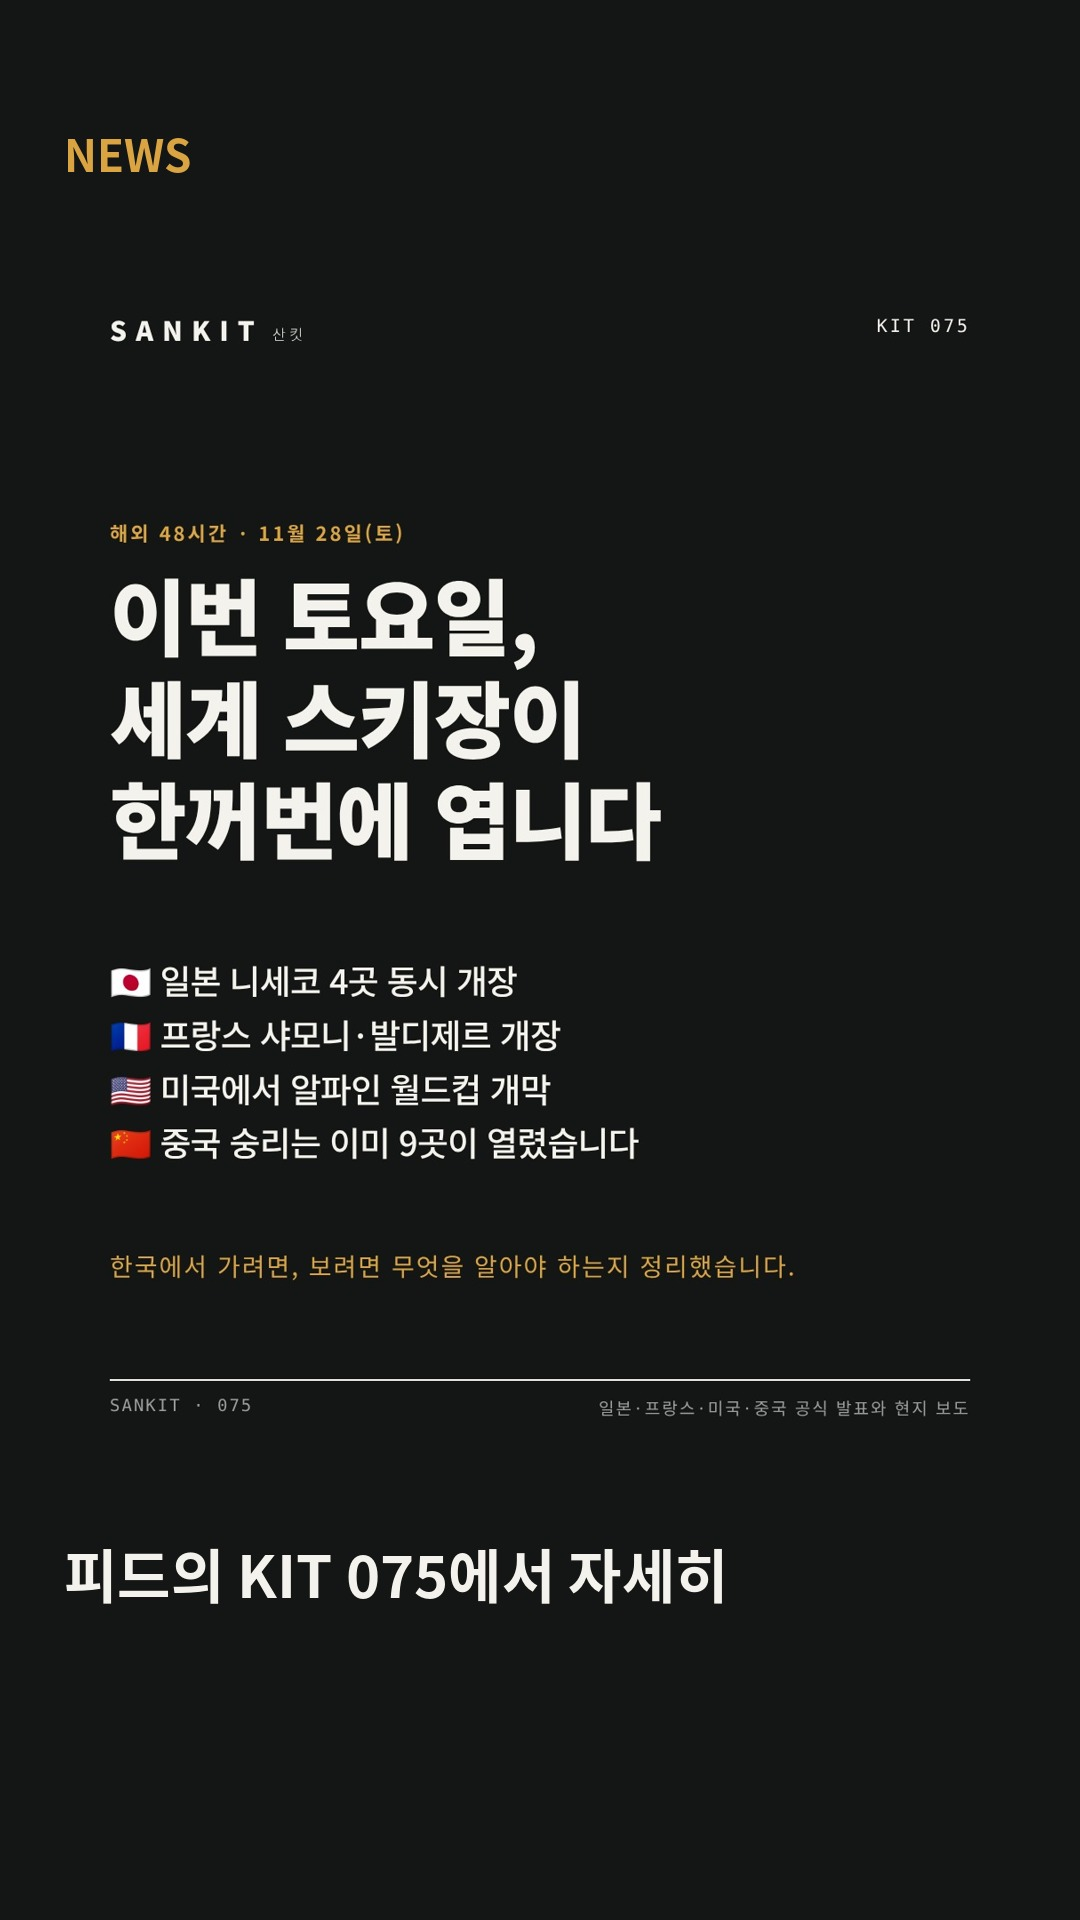
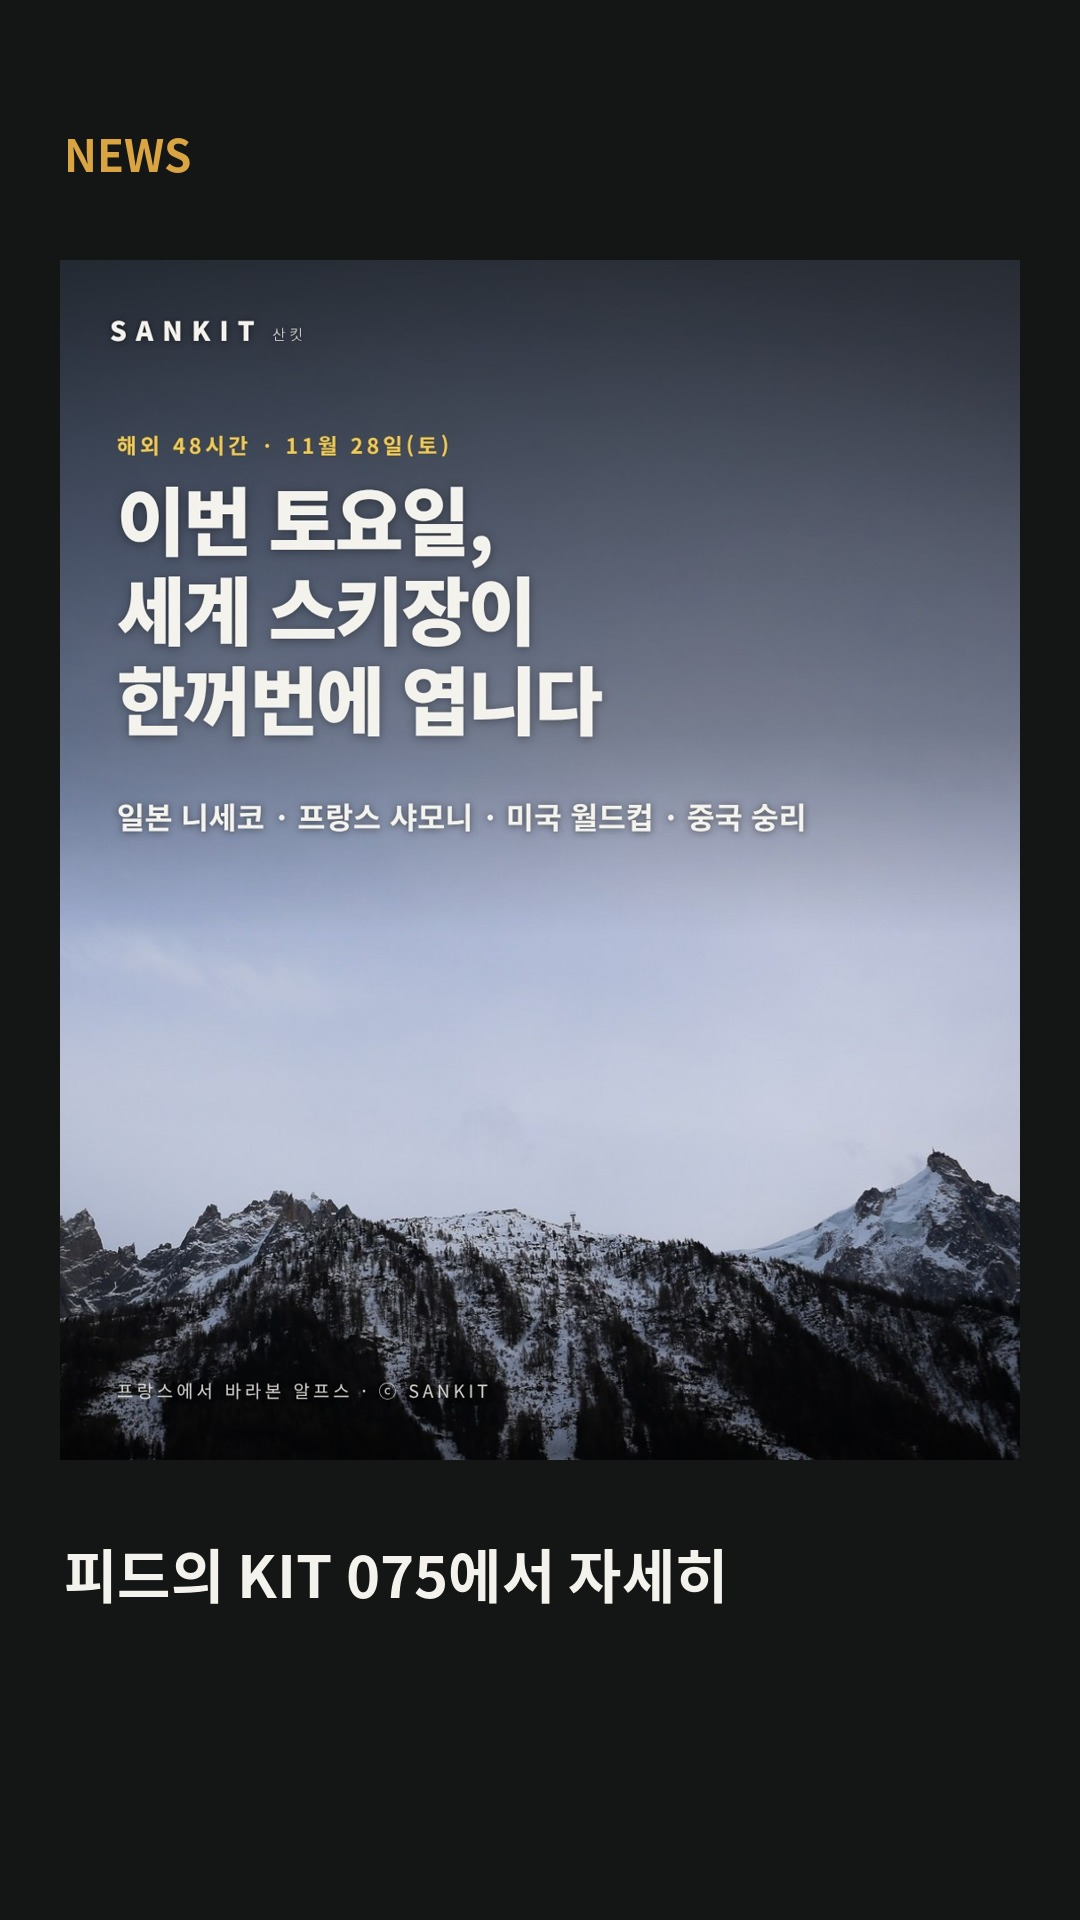
KIT 075 표지에 운영자 사진 적용 + EDITORIAL §31 사진 1장 규칙
Claude-Session: https://claude.ai/code/session_01VaA6FLe1k5iW7fuxv6ejxw

diff --git a/queue/2026-11-27/slot2/kit.html b/queue/2026-11-27/slot2/kit.html
@@ -43,18 +43,14 @@ body{background:#ccc;font-family:'Noto Sans CJK KR','Noto Sans CJK JP',sans-seri
 .cover .sub ~ .h2l,.cover .h2l.withsub{bottom:192px}
 .cover .shade{position:absolute;left:0;right:0;top:0;height:220px;background:linear-gradient(180deg,rgba(20,22,21,.55),rgba(20,22,21,0))}
 </style></head><body>
-<div class="card dark" id="s1">
-  <div class="wm">SANKIT<i>산킷</i></div><div class="kit mono">KIT 075</div>
-  <div class="kick" style="top:290px">해외 48시간 · 11월 28일(토)</div>
-  <div class="head" style="top:340px;right:56px;font-size:94px">이번 토요일,<br>세계 스키장이<br>한꺼번에 엽니다</div>
-  <div class="body" style="left:56px;right:56px;top:780px;font-size:38px">
-    🇯🇵 일본 니세코 4곳 동시 개장<br>
-    🇫🇷 프랑스 샤모니·발디제르 개장<br>
-    🇺🇸 미국에서 알파인 월드컵 개막<br>
-    🇨🇳 중국 숭리는 이미 9곳이 열렸습니다
-  </div>
-  <div class="call" style="left:56px;right:56px;top:1110px;font-size:28px;color:#d9a441">한국에서 가려면, 보려면 무엇을 알아야 하는지 정리했습니다.</div>
-  <div class="foot"><span class="mono">SANKIT · 075</span><span>일본·프랑스·미국·중국 공식 발표와 현지 보도</span></div>
+<div class="card cover" id="s1">
+  <img class="bg" src="cover.jpg" style="object-position:62% 50%">
+  <div class="shade" style="height:760px;background:linear-gradient(180deg,rgba(20,22,21,.72) 0%,rgba(20,22,21,.35) 70%,rgba(20,22,21,0) 100%)"></div>
+  <div class="wm">SANKIT<i>산킷</i></div>
+  <div style="position:absolute;left:64px;top:190px;font-size:24px;letter-spacing:4px;color:#F2C94C;font-weight:700">해외 48시간 · 11월 28일(토)</div>
+  <div style="position:absolute;left:64px;right:64px;top:240px;font-size:84px;font-weight:900;line-height:1.2;letter-spacing:-2.5px;color:#F4F2EC;text-shadow:0 2px 12px rgba(0,0,0,.35)">이번 토요일,<br>세계 스키장이<br>한꺼번에 엽니다</div>
+  <div style="position:absolute;left:64px;right:64px;top:600px;font-size:34px;font-weight:700;line-height:1.55;color:#F4F2EC;text-shadow:0 1px 8px rgba(0,0,0,.5)">일본 니세코 · 프랑스 샤모니 · 미국 월드컵 · 중국 숭리</div>
+  <div class="lab" style="bottom:64px;color:rgba(244,242,236,.85);text-shadow:0 1px 6px rgba(0,0,0,.6)">프랑스에서 바라본 알프스 · ⓒ SANKIT</div>
 </div>
 <div class="card" id="s2">
   <div class="wm">SANKIT<i>산킷</i></div><div class="kit mono">KIT 075</div>

diff --git a/pipeline/EDITORIAL.md b/pipeline/EDITORIAL.md
@@ -784,3 +784,12 @@ publish.yml 이 게시 직전에 만든다.
 3. **「해외 48시간」 글자 카드**: 사진이 없어도 쓰는 해외 본 기사 형식. 5장 = 표지(이번 주 해외 핵심 3~4줄) + 나라별 1장(spec 표 + "한국에서는?" 한 줄) . 기준 예시 queue/2026-11-27/slot2(KIT 075). 해외 출처 1곳 + 공식 발표 또는 두 번째 보도 1곳이면 쓴다. 환율 환산은 "참고 환산"과 고시일을 붙인다.
 4. 평일 슬롯2가 사진 부족으로 비게 되면 버리지 말고 「해외 48시간」으로 채운다(24절 대체 순서의 맨 앞).
 5. 월요일 스캔(3절)을 빠뜨렸으면 다음 제작 세션이 가장 먼저 한다.
+
+## 31. 사진은 한 장이어도 쓴다 (운영자 지시, 2026-11-27) — 이전의 "사용 가능한 사진 2장 미만이면 버린다"를 대체
+"사진이 한 장만 있더라도 그 사진을 사용해서 올려 주세요."
+
+- 쓸 수 있는 사진(프레스킷·공식 보도사진·공공누리 1유형·운영자 사진)이 **1장이라도 있으면 기사를 버리지 않는다.** 그 사진을 표지(01)에 쓰고 나머지 장은 글자 카드로 만든다.
+- 사진이 0장이면 30절 「해외 48시간」 글자 카드나 뉴스 줄로 돌린다. 버리지 않는다.
+- 주제 사진이 없으면 같은 지역·같은 분야의 운영자 사진(assets/owner)을 표지로 쓸 수 있다. 이때 표지 아래 설명에 **실제 찍힌 곳을 그대로** 적는다(예: "프랑스에서 바라본 알프스 · ⓒ SANKIT"). 기사 속 장소인 척하지 않는다. 7일 안 같은 사진 재사용 금지는 그대로.
+- 사진이 1장이면 릴스는 만들지 않아도 된다(카드 넘기기 릴스 금지 규칙 유지). 스토리는 story.jpg로.
+- 기준 예시: queue/2026-11-27/slot2(KIT 075) — 운영자 사진 1장 표지 + 글자 카드 4장.

diff --git a/pipeline/LOG.md b/pipeline/LOG.md
@@ -163,3 +163,4 @@
 - 2026-11-27 05:4x 슬롯1 산킷 뉴스: 05:05 예약 실행이 돌지 않아 news.yml을 수동 실행 → 뉴스는 만들어졌으나 커밋 push가 github-actions[bot] 403으로 실패. 원인은 news.yml에만 `permissions: contents: write`가 없던 것(다른 워크플로는 모두 있음). 한 줄 추가 후 재실행 → queue/2026-11-27/slot1 생성 확인(산킷 뉴스 11월 27일).
 2026-11-27 | 2 (12:10) | 075 | 이번 토요일, 세계 스키장이 한꺼번에 엽니다 (해외 48시간 첫 회 — 니세코 4곳 11.28 개장·공통권 13,500엔 / 프랑스 샤모니·발디제르 11.28 / 미국 월드컵 킬링턴·코퍼 11.28~29 / 중국 숭리 9곳·605만 명) | nisade.com, tabiris.com, j2ski.com(11.17), usskiandsnowboard.org, killington.com, news.cn(11.17·11.19)
 - 2026-11-27 메모(slot2, 대화 세션): 운영자 승인으로 비어 있던 금요일 슬롯2를 「해외 48시간」 글자 카드 5장으로 채움(role broad, format C). 태그는 확인된 해외 계정이 global_accounts.csv에 없어 넣지 않음. 동시에 EDITORIAL §30 추가, news.py 해외 4줄 고정(OVERSEAS_MIN), news_industry.csv에 해외 4줄, research/overseas_2026-11-27.md(11-23 누락분). 이번 주 해외 글: 유럽 3 · 일본 1 · 중국 1 · 북미 1.
+- 2026-11-27 11:1x 수정(slot2 KIT 075): 운영자 지시 "사진이 한 장만 있더라도 그 사진을 사용"에 따라 표지를 운영자 사진(assets/owner/alps/france_view_italy.jpg, 프랑스에서 바라본 알프스)으로 교체. 11-24 KIT 067은 italy_view_swiss_alps·sunset만 써서 7일 규칙 저촉 없음. EDITORIAL §31 추가(사진 1장이면 진행, 0장이면 해외 48시간·뉴스로).
